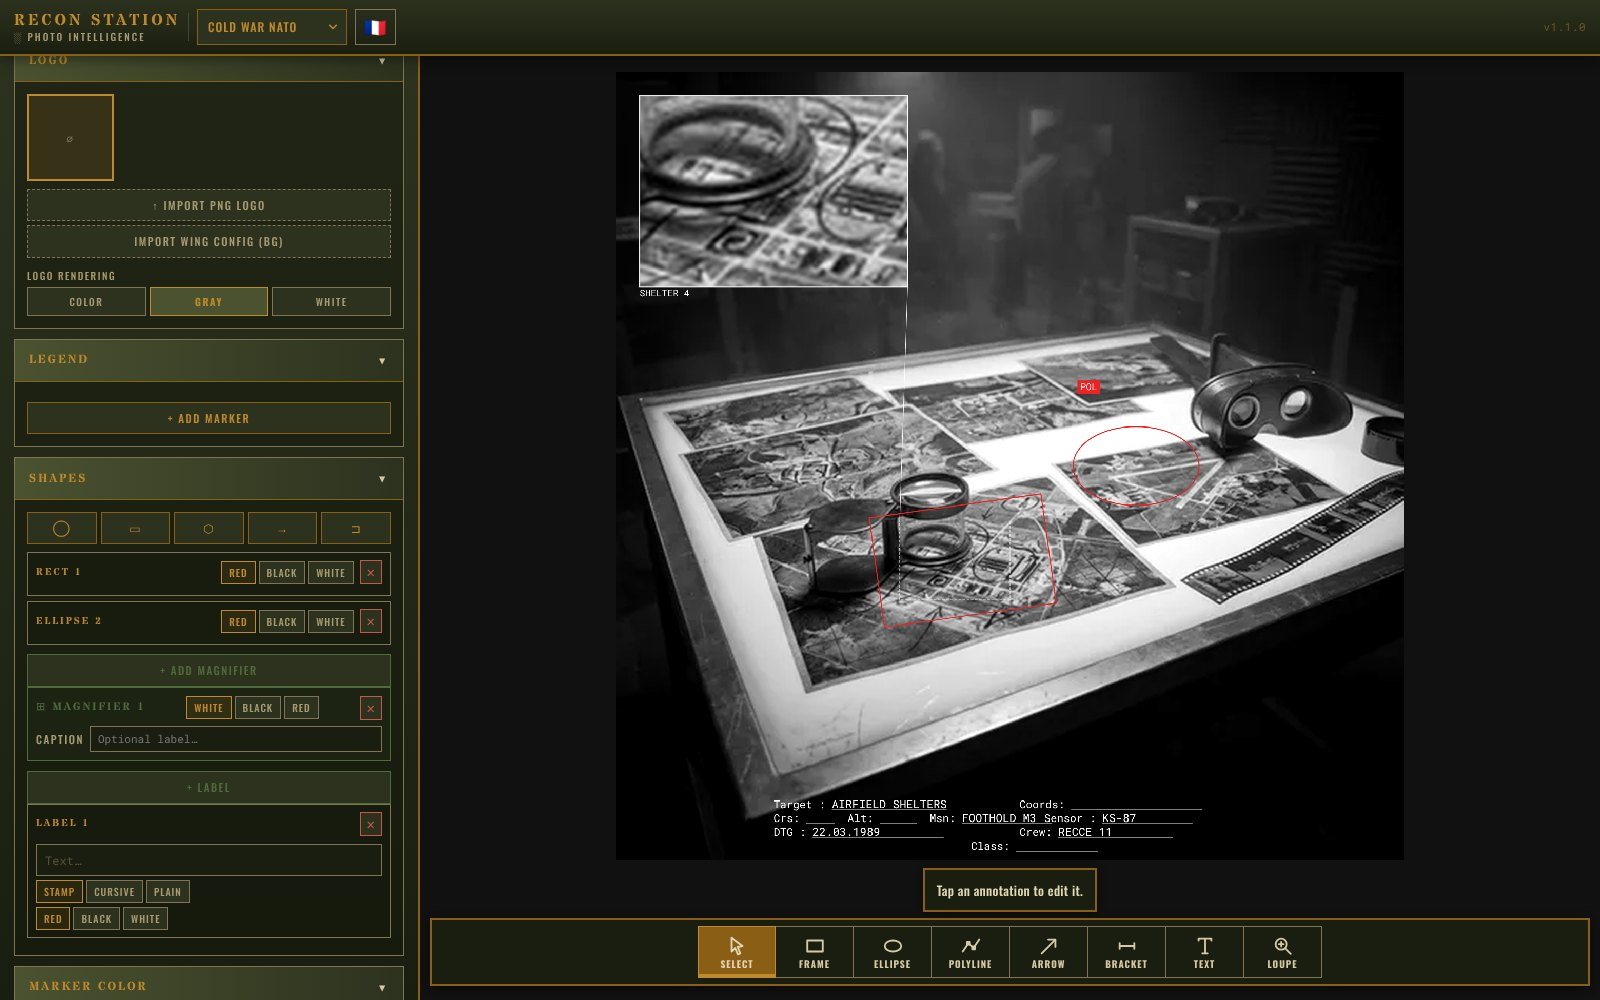
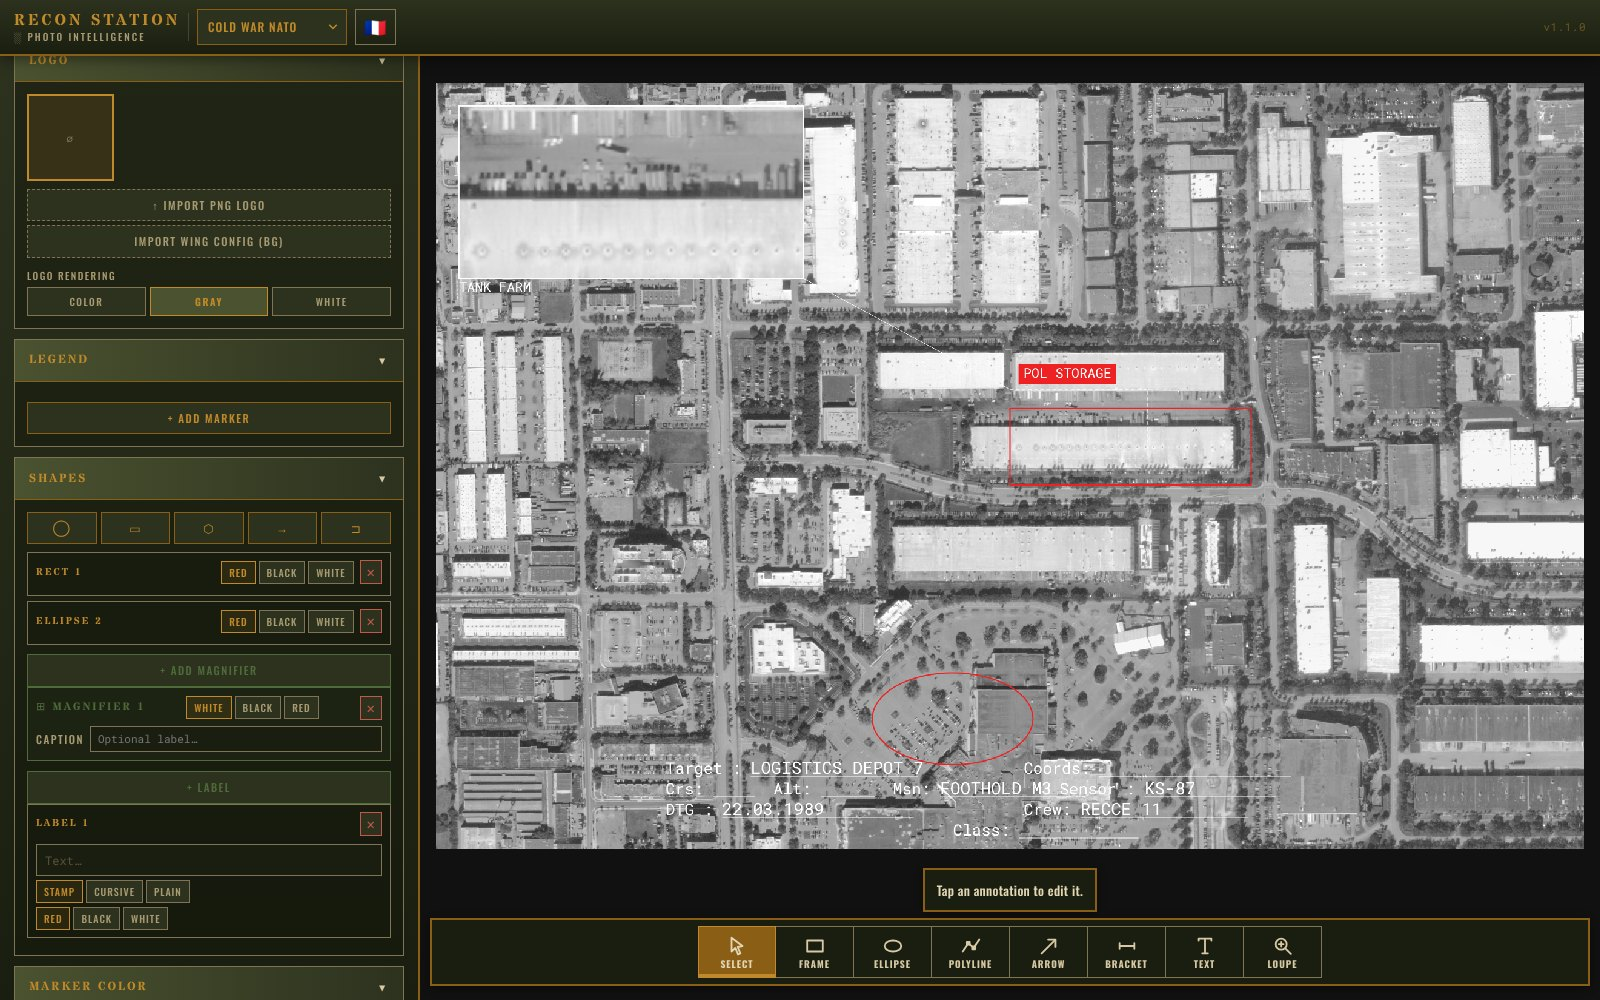
README: Datacard Generator screenshot, Recon Station screenshot on a public-domain aerial photo (USDA NAIP)
Claude-Session: https://claude.ai/code/session_019yGWbcJuXmtVaN7QHcVaru

diff --git a/README.md b/README.md
@@ -101,6 +101,10 @@ The Field Manual is the suite's **built-in documentation**, opened from the boar
 
 ![briefing-generator](docs/screenshots/briefing_generator.jpg)
 
+**Datacard Generator** — a one-page kneeboard datacard, built from scratch or from a briefing or a route
+
+![datacard-generator](docs/screenshots/datacard_generator.jpg)
+
 **Route Planner** — a route with leg boxes and minute marks, an orbit and a kill box drawn by touch
 
 ![route-planner](docs/screenshots/route_planner.jpg)
@@ -108,6 +112,8 @@ The Field Manual is the suite's **built-in documentation**, opened from the boar
 **Recon Station** — a frame, an ellipse, a stamp and a magnifier drawn on the image, with the info block
 
 ![recon-station](docs/screenshots/recon_station.jpg)
+
+<sub>Recon Station sample image: USDA National Agriculture Imagery Program (NAIP) aerial photograph, public domain.</sub>
 
 ## 🚀 Quick Start
 
